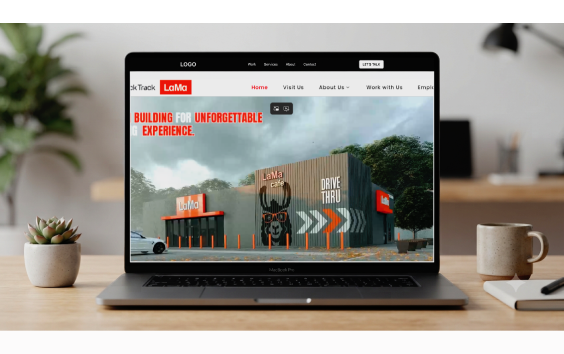
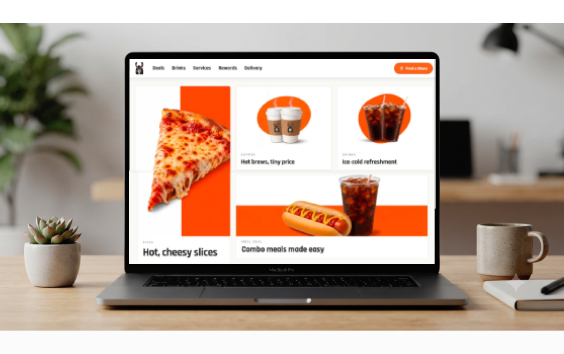
Portfolio description update

Changed region(s): [[0.211, 0.1554, 0.7837, 0.7458]]

diff --git a/index.html b/index.html
@@ -539,7 +539,9 @@
                   </p>
 
                   <div class="d-flex gap-2 flex-wrap mb-3" id="featured-tech">
-                    <span class="badge bg-light text-dark">Wordpress</span>
+                    <span class="badge bg-light text-dark">React</span>
+                    <span class="badge bg-light text-dark">NextJs</span>
+                    <span class="badge bg-light text-dark">Vercel</span>
                     <span class="badge bg-light text-dark">JavaScript</span>
                     <span class="badge bg-light text-dark">Google Analytics</span>
                     <span class="badge bg-light text-dark">Google My Business</span>
@@ -565,7 +567,7 @@
             <div class="project-card shadow-sm rounded-4 overflow-hidden cursor-pointer" onclick="setFeatured(this)"
               data-title="QuickTrack Inc" data-desc="Website for a Convenience Store company."
               data-img="assets/images/portfolio/quicktrackinc.png" data-link="https://quicktrackinc.com/"
-              data-tech="Wordpress, JavaScript, Google Analytics, Google My Business">
+              data-tech="React, NextJs, JavaScript, Vercel, Google Analytics, Google My Business">
 
               <img src="assets/images/portfolio/quicktrackinc.png" class="img-fluid" alt="QuickTrack Inc">
               <div class="p-3">

diff --git a/assets/css/style.css b/assets/css/style.css
@@ -520,7 +520,7 @@ header .hero-section .lakpa-image img {
 }
 
 .skills-card img {
-    width: 60%;
+    width: 50%;
     margin: 0 auto 1rem auto;
     background-color: #eee;
 }
